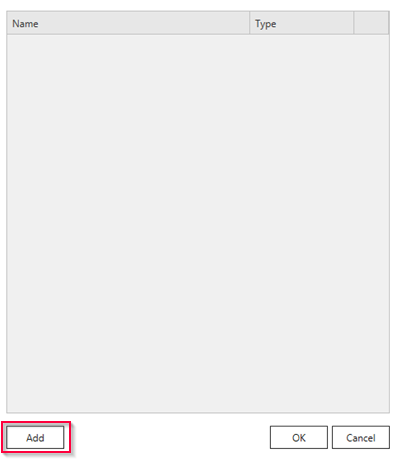
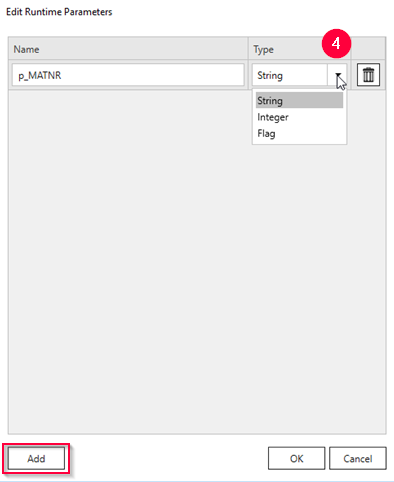
odp; include; settings; edit param

Changed region(s): [[0.0, 0.0, 1.0, 1.0], [0.9746, 0.1826, 1.0, 0.213]]

diff --git a/_includes/_content/en/odp/odp-settings-parameters.md b/_includes/_content/en/odp/odp-settings-parameters.md
@@ -1,12 +1,12 @@
 ### Edit Parameters <br/>
-At the bottom of the the window “Define data source for SAP ODP” click **Edit Parameters** to edit parameters. <br/>
+To display editing function for the parameters, depending on the product, click on **Edit Parameters** either at the *top* or at the *bottom* of the window “Define data source for SAP ODP”. <br/>
 ![ODP Edit parameters](/img/content/odp/odp-settings-edit-parameters1.png){:class="img-responsive"}
 The window "Edit Runtime Parameters" appears.
 ![ODP Add parameters](/img/content/odp/odp-settings-add-parameters.png){:class="img-responsive"}
 Click **Add** to define parameters which can be used as placeholders for data selections. These placeholders need to be populated with actual values at extraction runtime.
 This allows you to dynamically set filters at runtime.
 
-You can assign one of the following data types to a parameter. The data types can but don't need to correlate to SAP data types. 
+You can assign one of the following data types (4) to a parameter. The data types can, but don't need to correlate to SAP data types. 
 - String: This data type can be used for any type of SAP selection field.
 - Integer: This data type can be used for numeric SAP selection fields.
 - Flag: This data type can only be used for SAP selection fields, which require an 'X'&nbsp;(true) or a blank ''&nbsp;(false) as input value.
